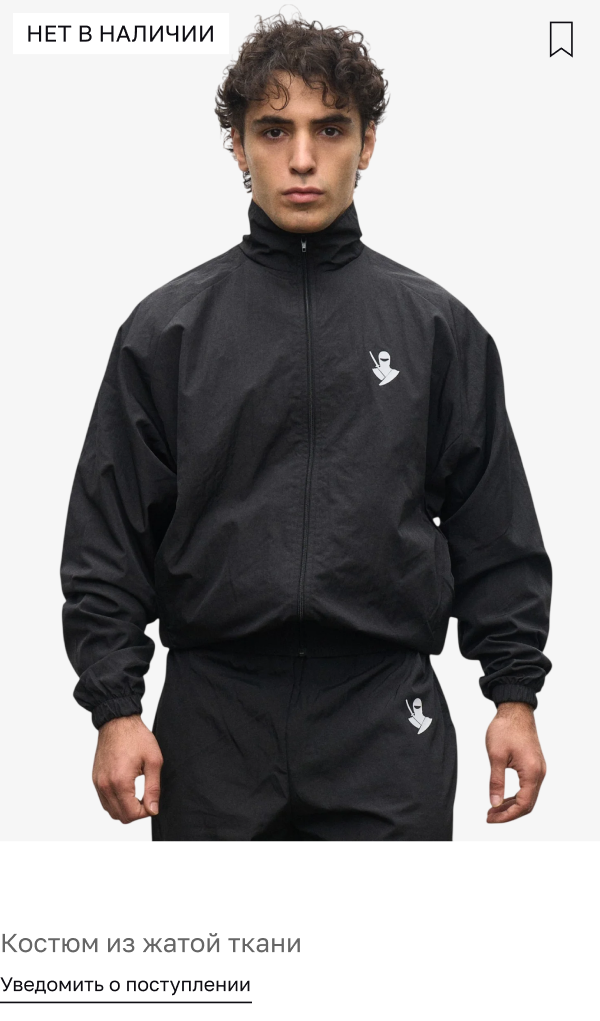
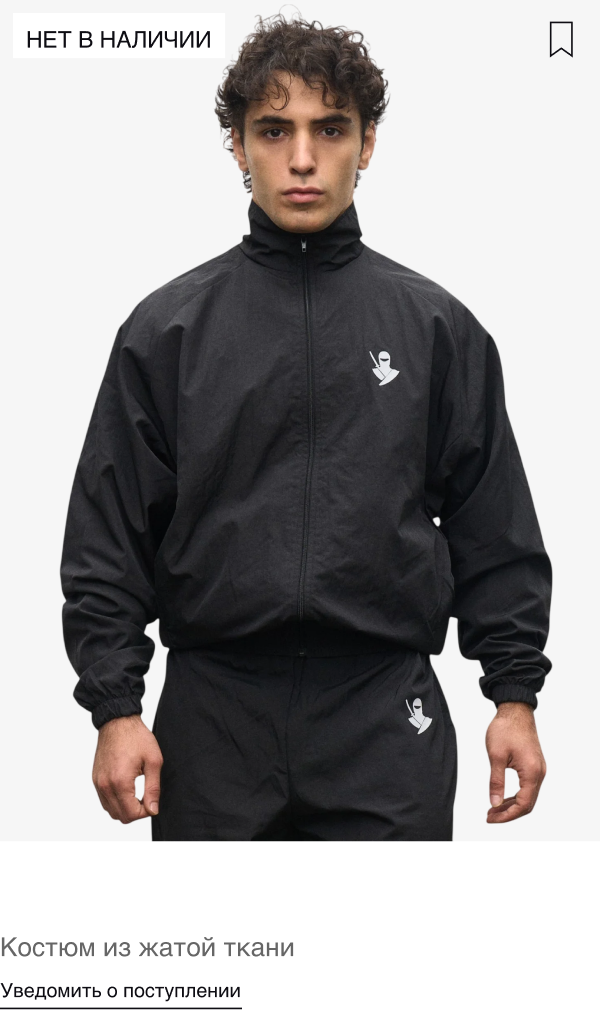
Шрифты: карточка товара и «Дополнить образ» на Helvetica (был Golos Text)

Changed region(s): [[0.0, 0.9109, 0.51, 1.0], [0.03, 0.0, 0.36, 0.0607]]

diff --git a/index.html b/index.html
@@ -259,7 +259,7 @@
         <img class="p8-ui" style="left:898px;top:943px;width:368px" src="assets/product/lightbox.png" alt="Увеличенное фото ткани" loading="lazy">
         <img class="p8-ui" style="left:48px;top:1533px;width:302px" src="assets/product/choice.png" alt="Блок выбора: цена 12 500 ₽, 4 платежа по 3 125 ₽, цвет, размер, кнопка «Добавить в корзину»" loading="lazy">
         <img class="p8-ui" style="left:374px;top:1611px;width:302px" src="assets/product/accordion.png" alt="Раскрывающиеся списки: состав и уход, доставка, обмен и возврат" loading="lazy">
-        <img class="p8-ui" style="left:700px;top:1565px;width:652px" src="assets/product/complete-look.png" alt="Блок «Дополнить образ»: футболки, кепка, носки" loading="lazy">
+        <img class="p8-ui" style="left:700px;top:1565px;width:652px" src="assets/product/complete-look.png?v=3" alt="Блок «Дополнить образ»: футболки, кепка, носки" loading="lazy">
         <div class="t p8-lab" style="left:48px;top:438px;width:210px">Видео вместо фото</div>
         <div class="t p8-txt" style="left:48px;top:463px;width:210px">Короткое видео в&nbsp;галерее показывает посадку в&nbsp;движении.</div>
         <div class="t p8-lab" style="left:48px;top:716px;width:210px">Галерея</div>
@@ -355,9 +355,9 @@
         <div class="t k-meta" style="left:48px;top:48px">11  ·  Карточка товара</div>
         <div class="t k-meta" style="right:48px;top:48px;text-align:right">Система</div>
         <!-- Герой: место под видео взаимодействия с карточкой. Сейчас — первый кадр (hero.png). Видео вставим в конце:
-             <video src="assets/videos/…mp4" poster="assets/card/hero.png?v=2" muted loop playsinline preload="none"></video> -->
+             <video src="assets/videos/…mp4" poster="assets/card/hero.png?v=3" muted loop playsinline preload="none"></video> -->
         <div class="k-hero">
-          <div class="k-video"><img src="assets/card/hero.png?v=2" alt="Карточка товара: костюм из жатой ткани, 12 500 ₽" loading="lazy"></div>
+          <div class="k-video"><img src="assets/card/hero.png?v=3" alt="Карточка товара: костюм из жатой ткани, 12 500 ₽" loading="lazy"></div>
           <img class="play" src="assets/icons/play.svg" alt="" aria-hidden="true">
         </div>
         <div class="t k-txt" style="left:133px;top:390.8px;width:240px">Фото листаются по&nbsp;зонам наведения</div>
@@ -373,9 +373,9 @@
         <div class="r k-line" style="left:954px;top:735.3px;width:65px;height:1px"></div>
         <div class="r k-line" style="left:954px;top:862px;width:65px;height:1px"></div>
         <div class="k-story">
-          <img style="left:24px" src="assets/card/frame-1.png?v=2" alt="Кадр 1: обычная карточка" loading="lazy">
-          <img style="left:372px" src="assets/card/frame-2.png?v=2" alt="Кадр 2: выбор размера на фото, товар в избранном" loading="lazy">
-          <img style="left:720px" src="assets/card/frame-3.png" alt="Кадр 3: нет в наличии, «Уведомить о поступлении»" loading="lazy">
+          <img style="left:24px" src="assets/card/frame-1.png?v=3" alt="Кадр 1: обычная карточка" loading="lazy">
+          <img style="left:372px" src="assets/card/frame-2.png?v=3" alt="Кадр 2: выбор размера на фото, товар в избранном" loading="lazy">
+          <img style="left:720px" src="assets/card/frame-3.png?v=3" alt="Кадр 3: нет в наличии, «Уведомить о поступлении»" loading="lazy">
         </div>
       </div>
     </section>
